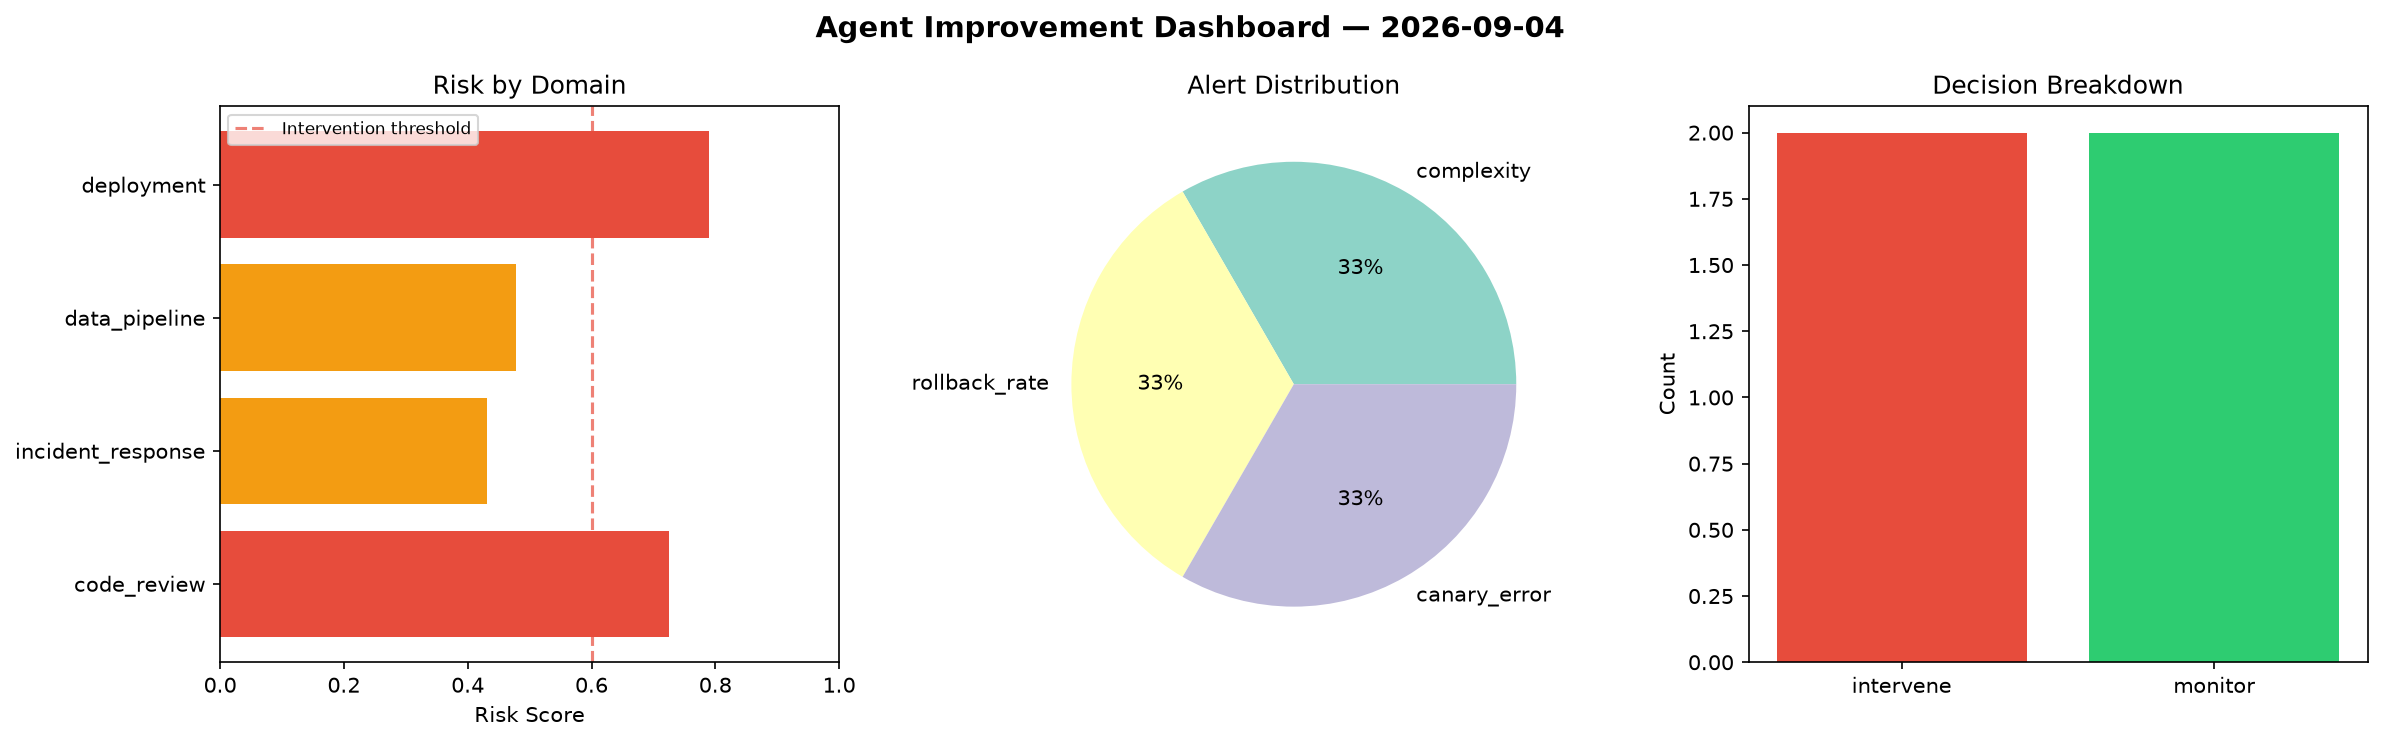
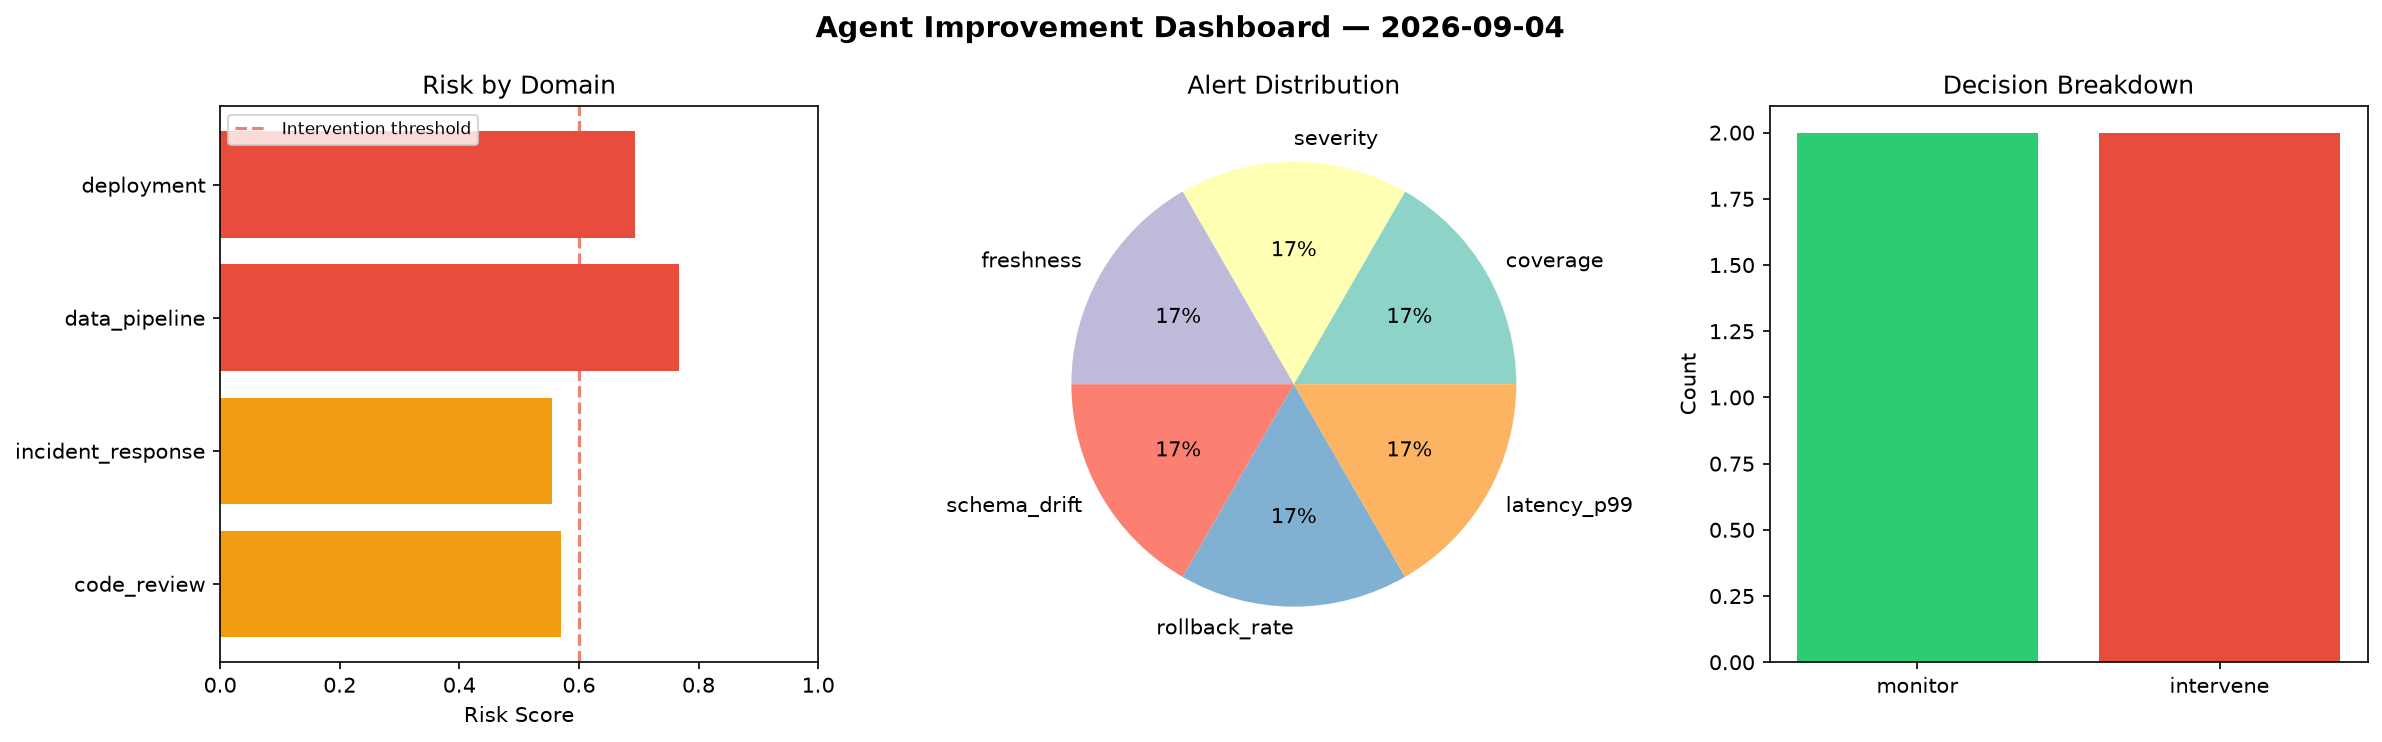
agent-improvement: daily cycle 2026-09-04T12:43

diff --git a/logs/2026-09-04.md b/logs/2026-09-04.md
@@ -1,6 +1,6 @@
 # Agent Improvement Report — 2026-09-04
 
-**Cycle ID:** `8ef7db7c` | **Avg Risk:** 0.6063 | **Interventions:** 2/4
+**Cycle ID:** `0a1d2b08` | **Avg Risk:** 0.6466 | **Interventions:** 2/4
 
 ![Dashboard](2026-09-04_dashboard.png)
 
@@ -10,18 +10,18 @@
 
 | Domain | Risk Score | Decision | Alerts |
 |--------|-----------|----------|--------|
-| code_review | 0.7258 | intervene | complexity |
-| incident_response | 0.4313 | monitor | none |
-| data_pipeline | 0.4782 | monitor | none |
-| deployment | 0.79 | intervene | rollback_rate, canary_error |
+| code_review | 0.5699 | monitor | coverage |
+| incident_response | 0.5551 | monitor | severity |
+| data_pipeline | 0.768 | intervene | freshness, schema_drift |
+| deployment | 0.6936 | intervene | rollback_rate, latency_p99 |
 
 ## Delta vs Yesterday
 
 | Domain | Today | Yesterday | Change |
 |--------|-------|-----------|--------|
-| code_review | 0.7258 | 0.3569 | 📈 103.4% |
-| incident_response | 0.4313 | 0.7445 | 📉 -42.1% |
-| data_pipeline | 0.4782 | 0.6711 | 📉 -28.7% |
-| deployment | 0.79 | 0.2888 | 📈 173.5% |
+| code_review | 0.5699 | 0.3569 | 📈 59.7% |
+| incident_response | 0.5551 | 0.7445 | 📉 -25.4% |
+| data_pipeline | 0.768 | 0.6711 | 📈 14.4% |
+| deployment | 0.6936 | 0.2888 | 📈 140.2% |
 
 **Refinement:** `{'adjustment': 'tighten_thresholds', 'trend': 'degrading', 'window': 4}`
